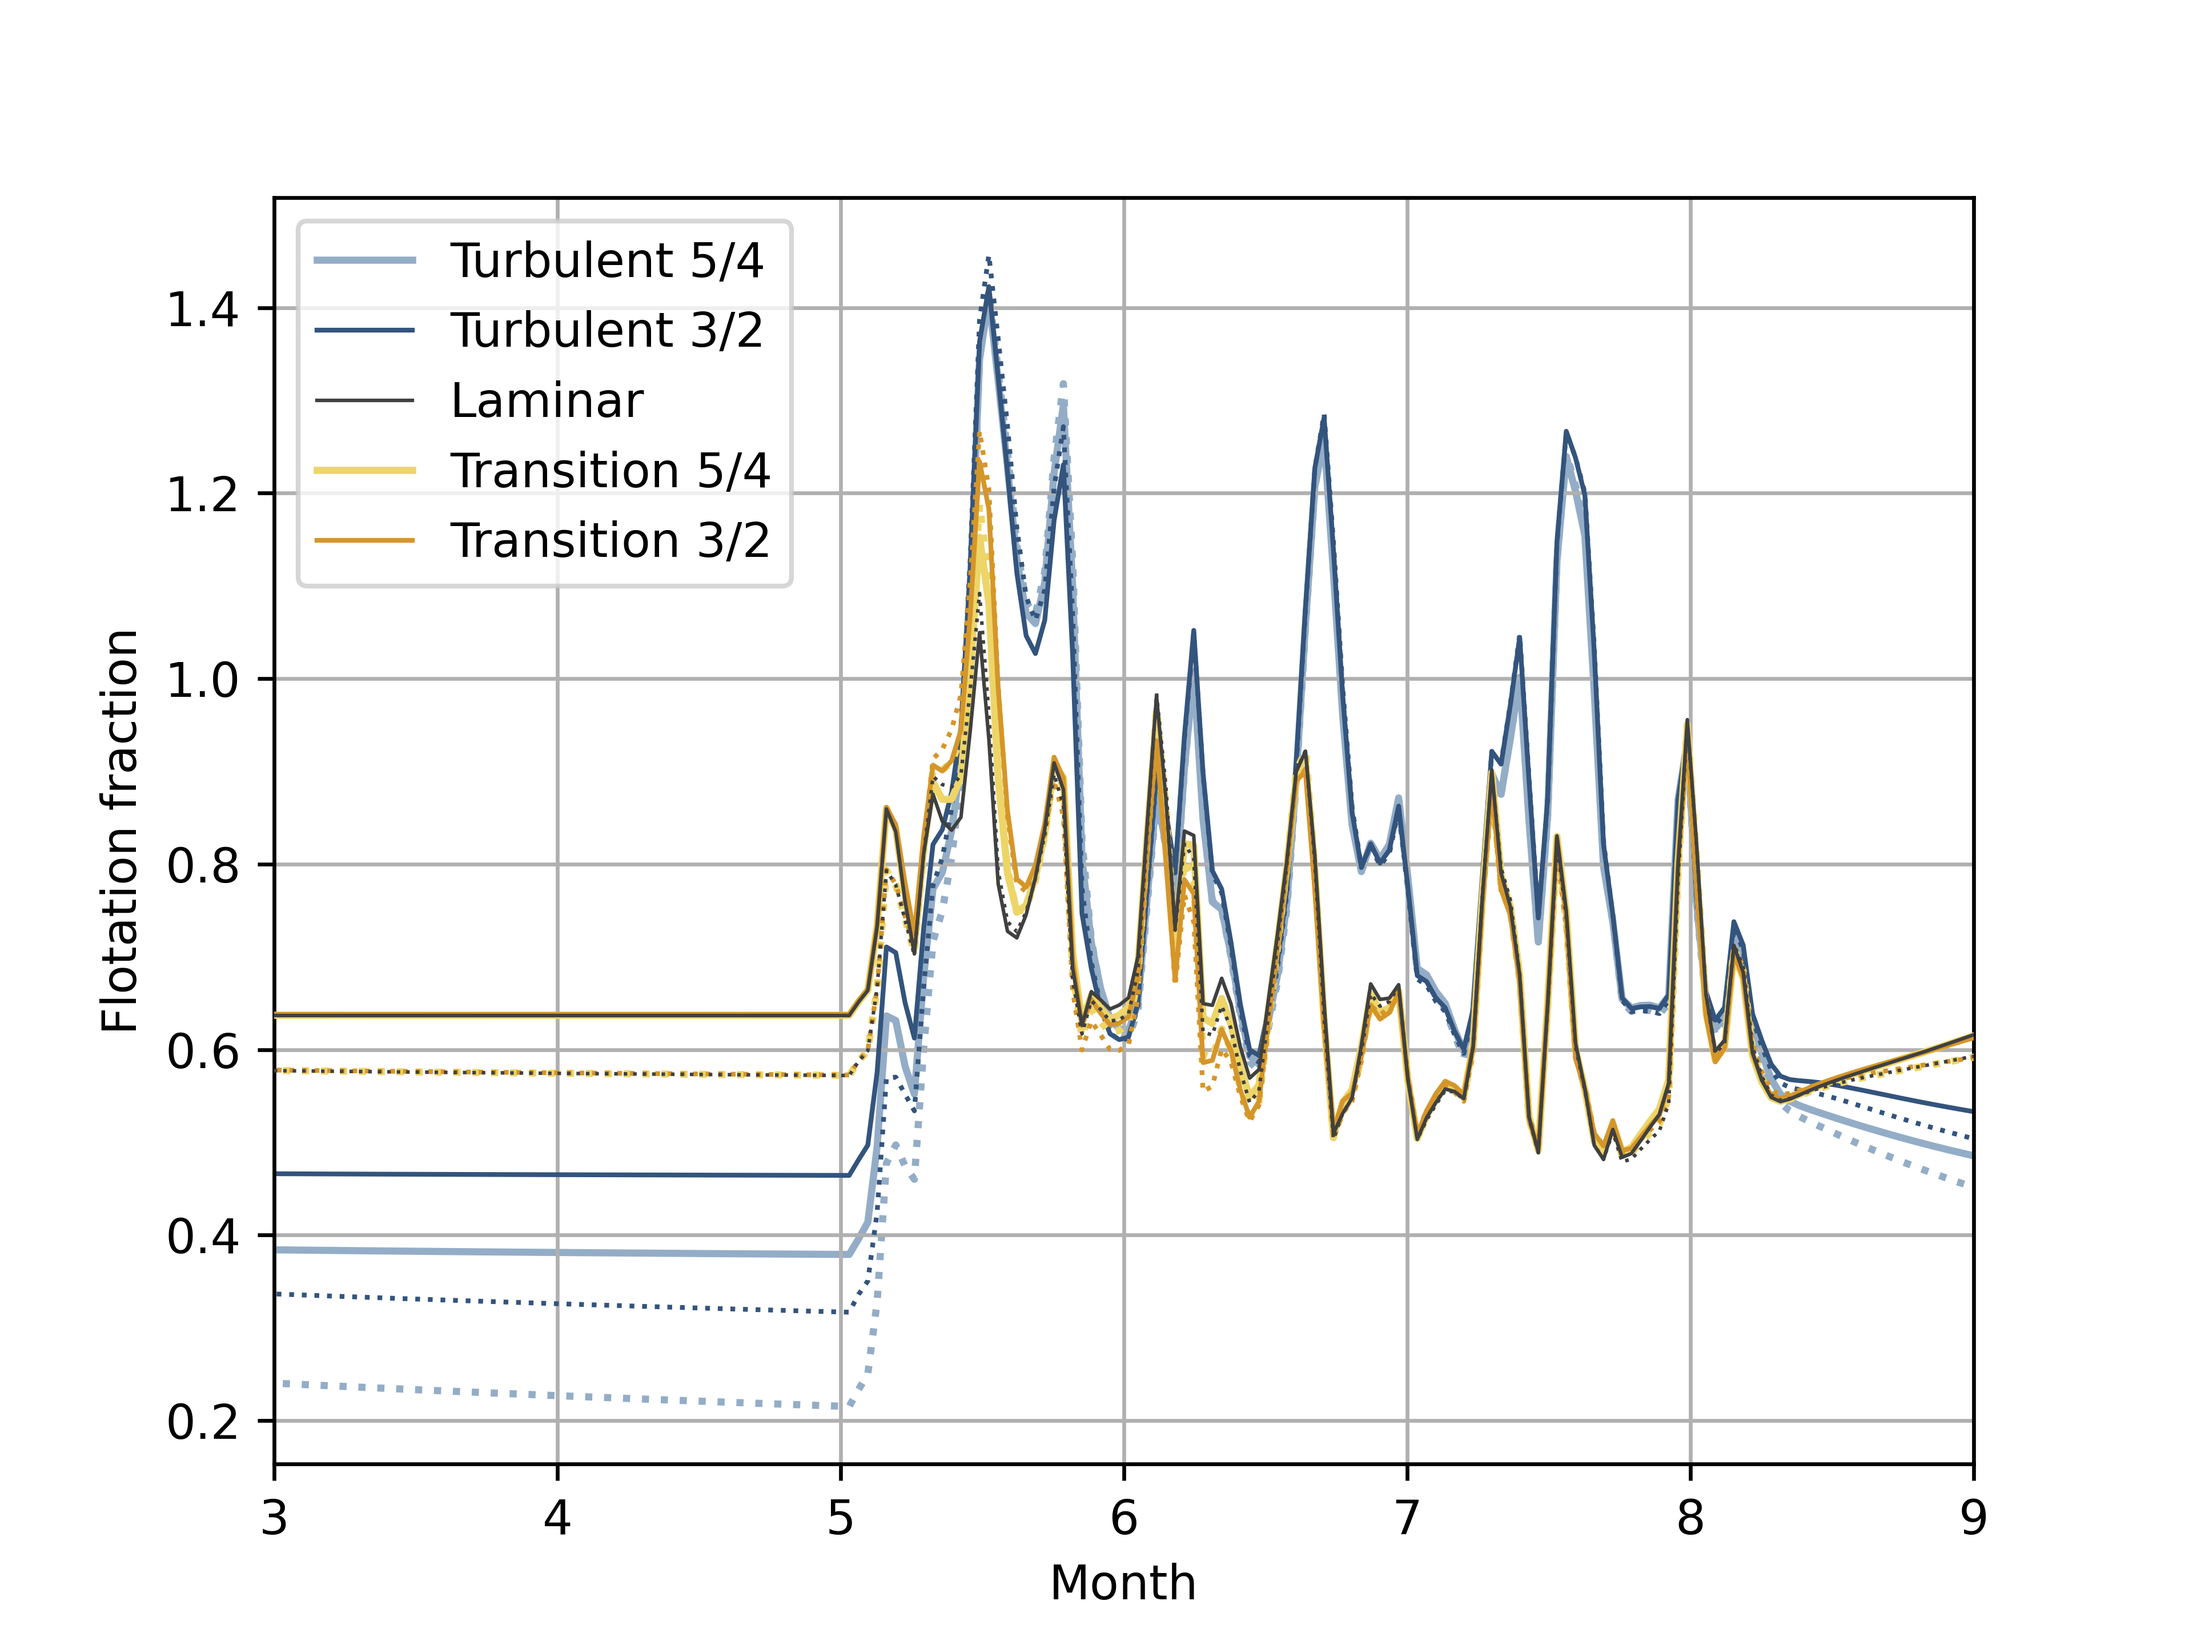
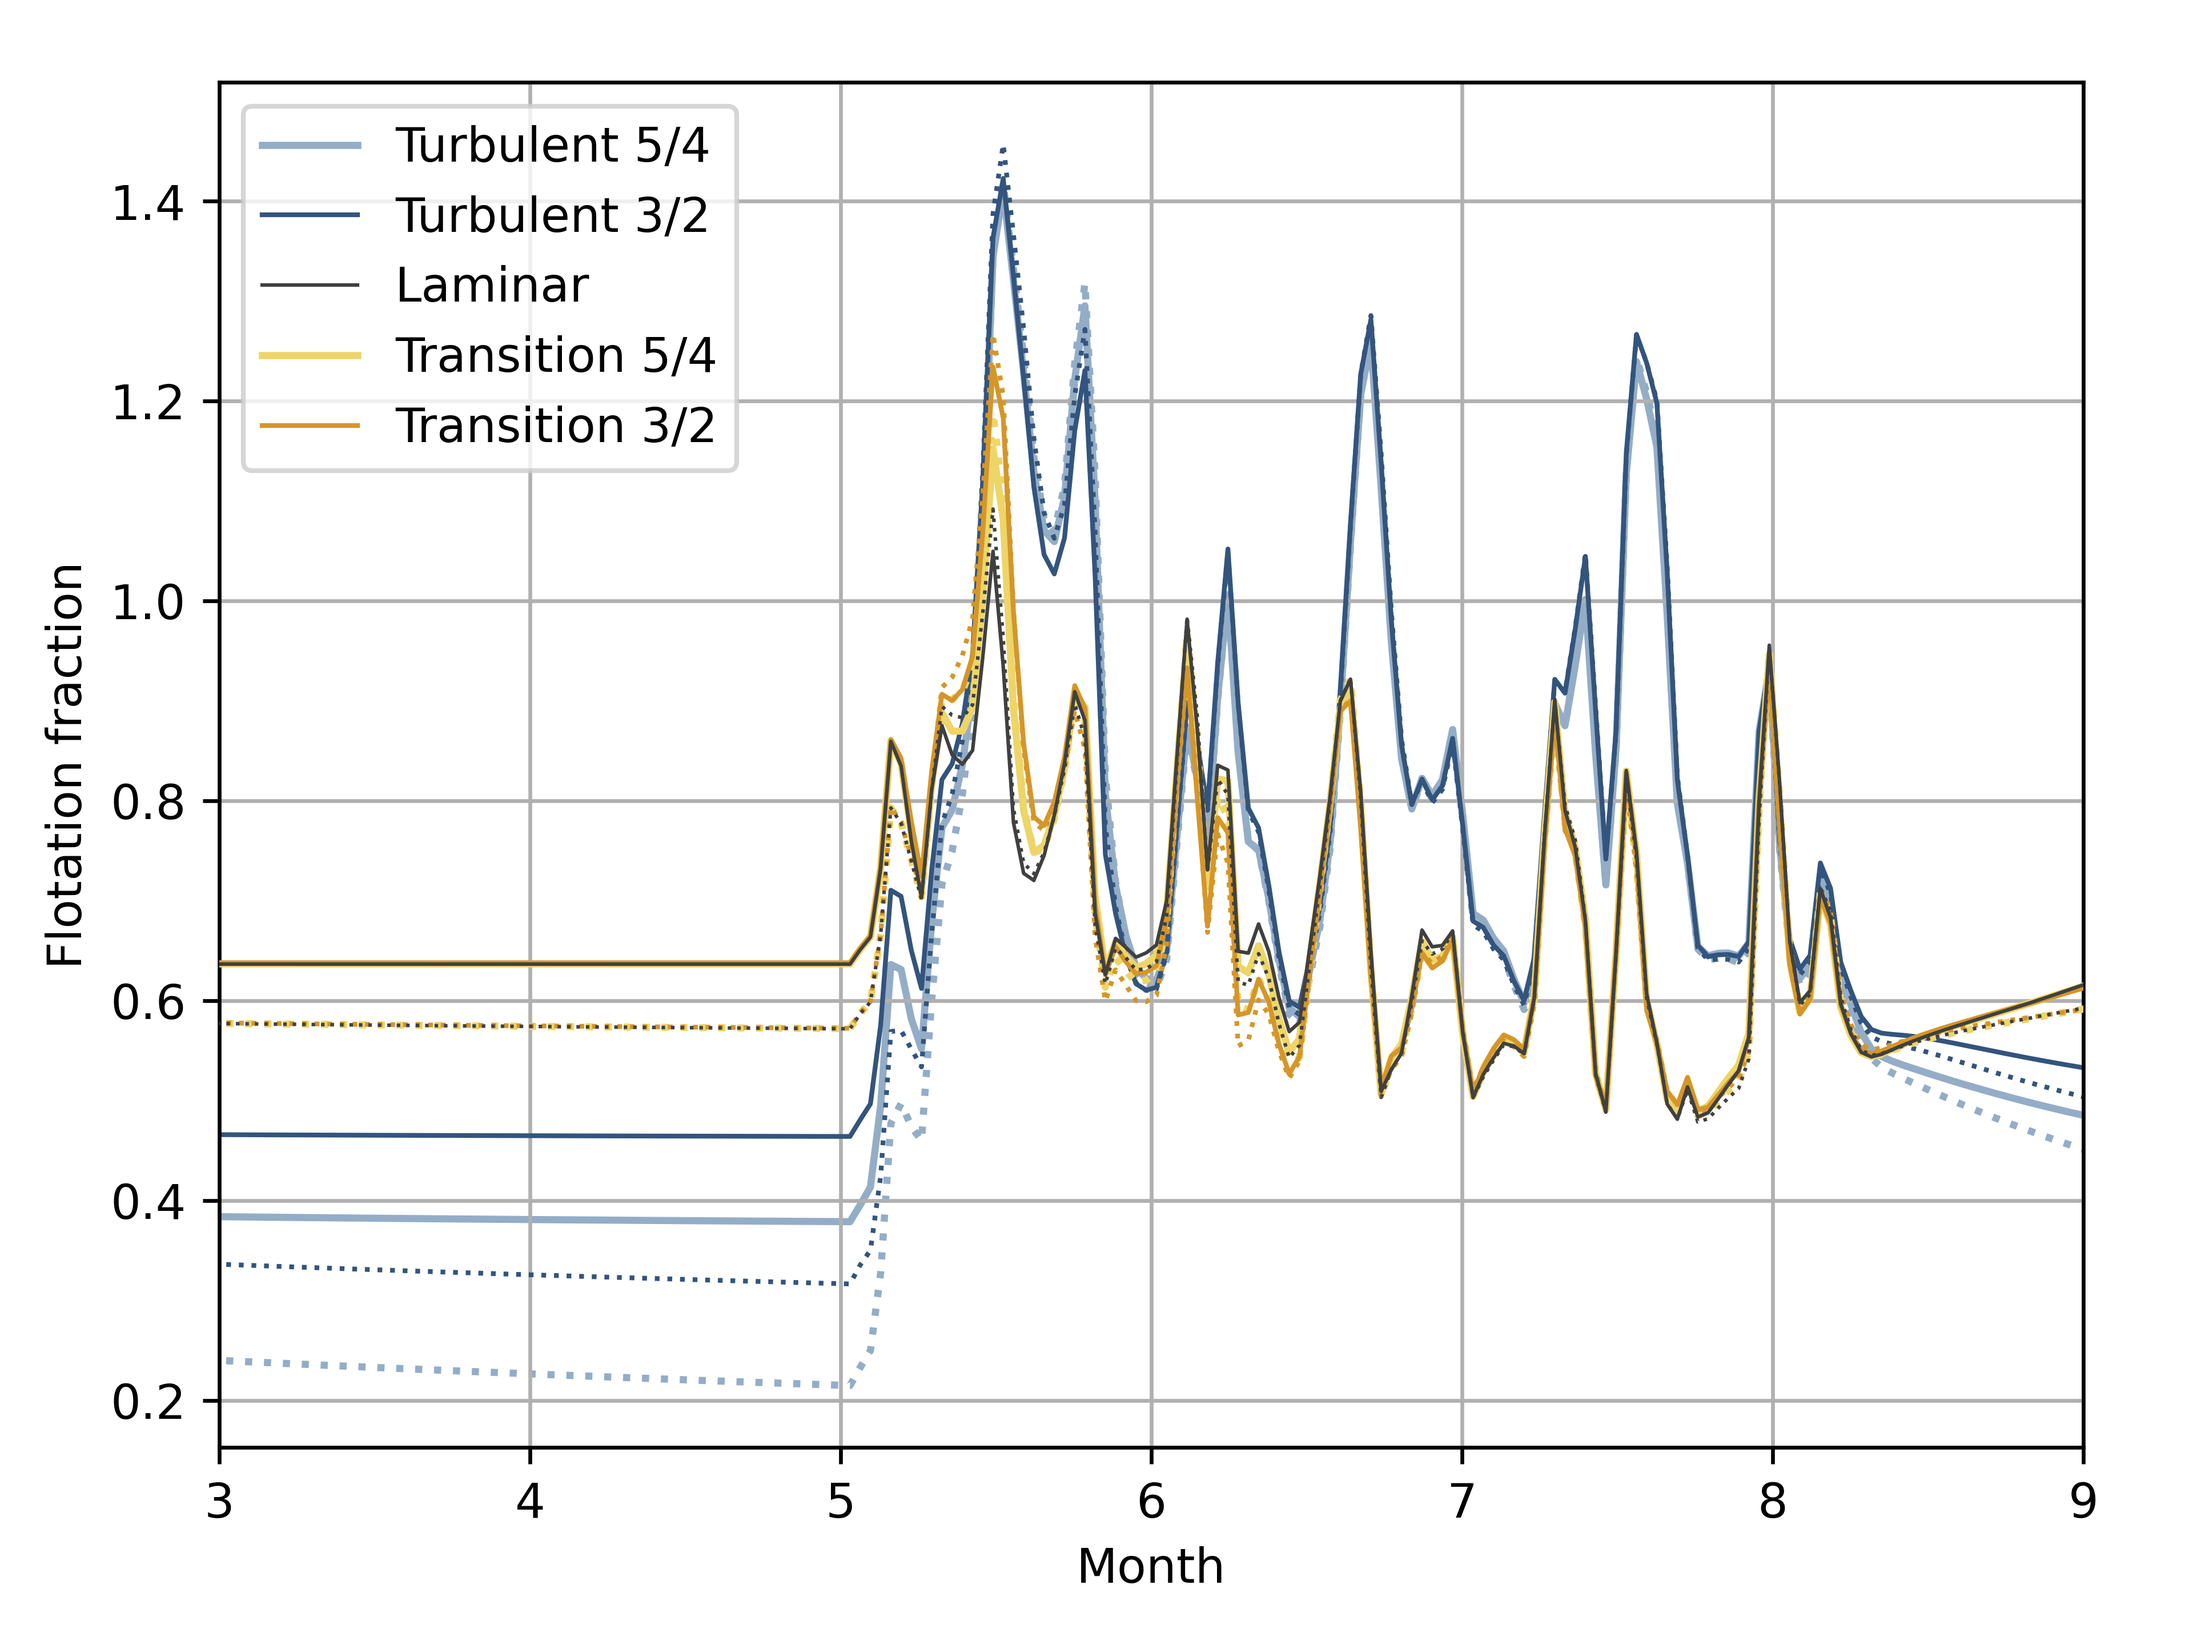
Update basal melt figure spacing

diff --git a/glads/01d_kan_basalmelt/analysis/compare_winter.py b/glads/01d_kan_basalmelt/analysis/compare_winter.py
@@ -95,6 +95,8 @@ ax.set_ylabel('Flotation fraction')
 # ax.set_xlim([5, 6])
 ax.set_xlim([3, 9])
 ax.legend()
+
+fig.subplots_adjust(left=0.1, bottom=0.12, right=0.95, top=0.95)
 fig.savefig('compare_basalmelt.png', dpi=600)
 
 plt.show()
